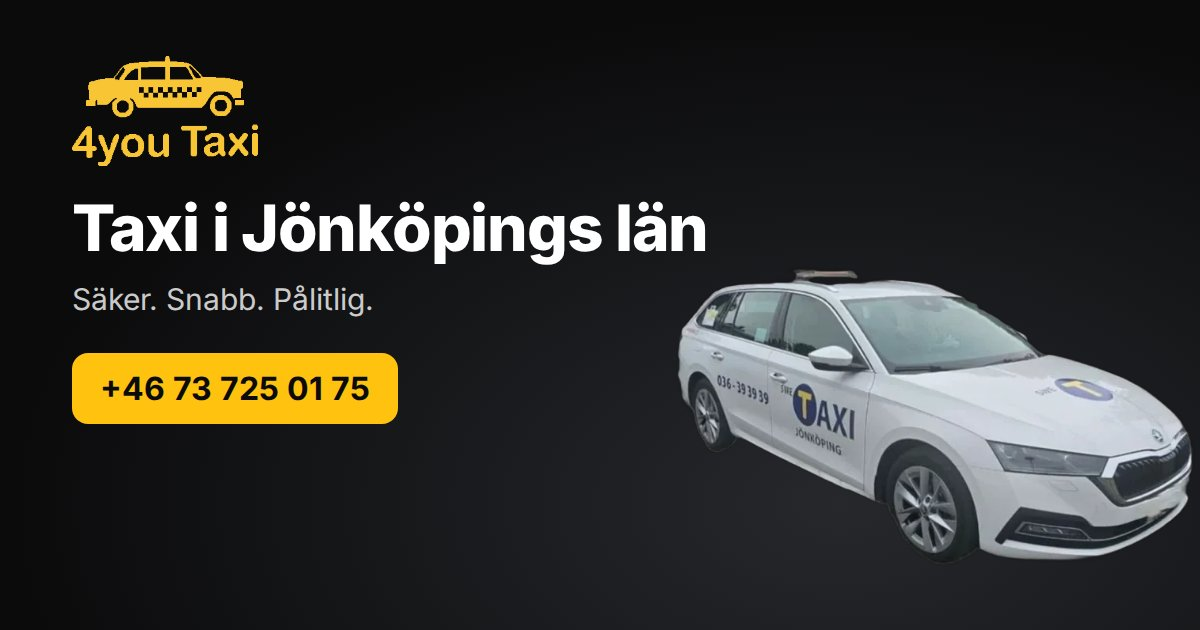
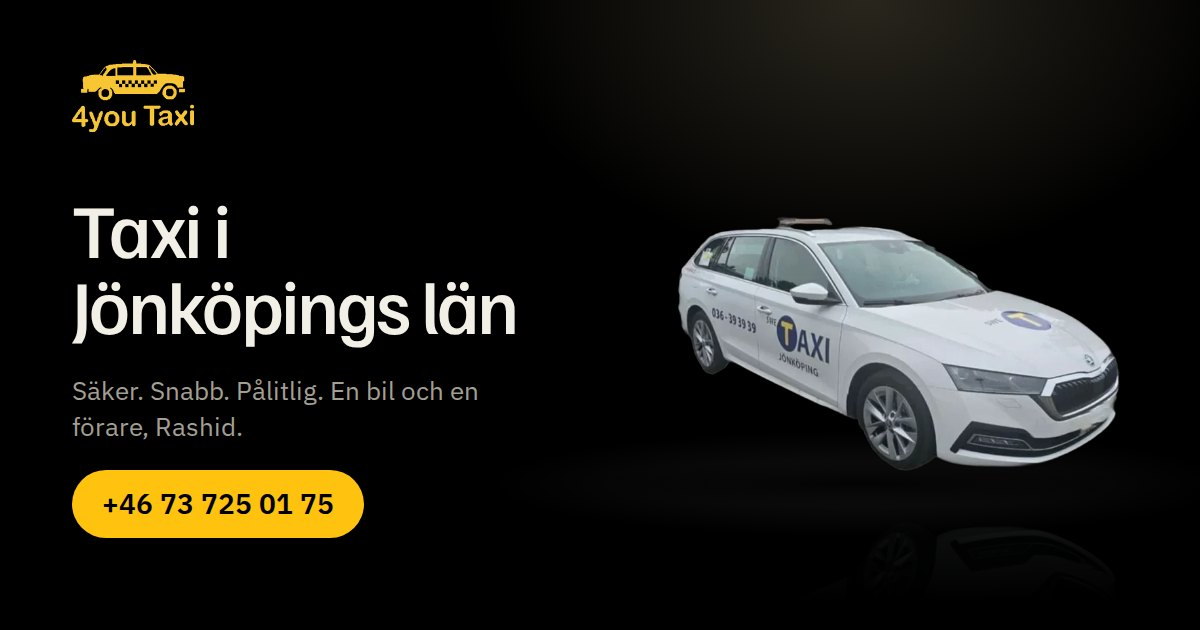
Polish: car reflection, button press feedback, new link preview image
The reflection is mirrored around each frame's ground line, so it meets
the wheels however high the car sits in the frame.

Claude-Session: https://claude.ai/code/session_01A3xESbUXBUaqDZbtP8kb2M

diff --git a/src/scripts/carViewer.ts b/src/scripts/carViewer.ts
@@ -6,6 +6,7 @@
 
 const PRIORITY_STEP = 4; // load every 4th frame first, then fill the gaps
 const CONCURRENCY = 4;
+const REFLECTION_FADE = 0.38; // the reflection fades out over this share of the car's height
 
 export function initCarViewer(root: HTMLElement): void {
   if (window.matchMedia('(prefers-reduced-motion: reduce)').matches) return;
@@ -19,12 +20,17 @@ export function initCarViewer(root: HTMLElement): void {
   const poster = root.querySelector<HTMLImageElement>('img');
   const hint = root.querySelector<HTMLElement>('[data-hint]');
   const captions = Array.from(root.querySelectorAll<HTMLElement>('[data-caption]'));
+  const reflection = root.querySelector<HTMLCanvasElement>('[data-reflection]');
+  const reflectionCtx = reflection?.getContext('2d');
   const ctx = canvas?.getContext('2d');
   if (!canvas || !poster || !ctx || !(count > 1) || !(frameWidth > 0) || !(frameHeight > 0)) return;
 
   // Frames are kept as decoded bitmaps: drawing a plain <img> can make the browser decode the
   // WebP again on every draw, which stutters on slower phones.
   const frames: (ImageBitmap | HTMLImageElement | undefined)[] = new Array(count);
+  // Where the wheels touch the ground in each frame, as a share of the frame height. The car sits
+  // at a different height in each frame, so the reflection is mirrored around this line.
+  const ground: number[] = new Array(count).fill(1);
   const requested = new Set<number>();
   let wanted = 0;
   let drawn = -1;
@@ -50,11 +56,60 @@ export function initCarViewer(root: HTMLElement): void {
     const scale = Math.min(w / img.width, h / img.height);
     const dw = img.width * scale;
     const dh = img.height * scale;
+    const x = (w - dw) / 2;
+    const y = (h - dh) / 2;
     ctx.clearRect(0, 0, w, h);
-    ctx.drawImage(img, (w - dw) / 2, (h - dh) / 2, dw, dh);
+    ctx.drawImage(img, x, y, dw, dh);
+    if (reflectionCtx) drawReflection(img, x, y, dw, dh, ground[i]);
     drawn = i;
     // Swap the poster <img> for the canvas once there is something on it.
     root.dataset.ready = 'true';
+  };
+
+  // The reflection canvas sits half a stage lower than the main one (see CarViewer.astro).
+  const drawReflection = (
+    img: CanvasImageSource,
+    x: number,
+    y: number,
+    dw: number,
+    dh: number,
+    groundShare: number,
+  ) => {
+    const r = reflectionCtx!;
+    const { width: w, height: h } = canvas;
+    const top = y - h / 2; // where the car's top edge is in this canvas
+    const line = top + groundShare * dh;
+    r.setTransform(1, 0, 0, 1, 0, 0);
+    r.clearRect(0, 0, w, h);
+    r.setTransform(1, 0, 0, -1, 0, 2 * line); // mirror around the ground line
+    r.drawImage(img, x, top, dw, dh);
+    r.setTransform(1, 0, 0, 1, 0, 0);
+    const fade = r.createLinearGradient(0, line, 0, line + dh * REFLECTION_FADE);
+    fade.addColorStop(0, '#000');
+    fade.addColorStop(1, 'transparent');
+    r.globalCompositeOperation = 'destination-in';
+    r.fillStyle = fade;
+    r.fillRect(0, 0, w, h);
+    r.globalCompositeOperation = 'source-over';
+  };
+
+  // Lowest non-transparent row of a frame, read once from a narrow copy of it.
+  const probe = document.createElement('canvas');
+  const probeCtx = probe.getContext('2d', { willReadFrequently: true });
+  const findGround = (img: ImageBitmap | HTMLImageElement): number => {
+    if (!probeCtx) return 1;
+    const pw = 32;
+    const ph = img.height;
+    probe.width = pw;
+    probe.height = ph;
+    probeCtx.drawImage(img, 0, 0, pw, ph);
+    const { data } = probeCtx.getImageData(0, 0, pw, ph);
+    for (let row = ph - 1; row >= 0; row--) {
+      for (let col = 0; col < pw; col++) {
+        if (data[(row * pw + col) * 4 + 3] > 8) return (row + 1) / ph;
+      }
+    }
+    return 1;
   };
 
   const schedule = () => {
@@ -92,6 +147,10 @@ export function initCarViewer(root: HTMLElement): void {
     const dpr = Math.min(window.devicePixelRatio || 1, 2);
     canvas.width = Math.round(rect.width * dpr);
     canvas.height = Math.round(rect.height * dpr);
+    if (reflection) {
+      reflection.width = canvas.width;
+      reflection.height = canvas.height;
+    }
     drawn = -1; // canvas was cleared by resizing: force a redraw
     schedule();
   };
@@ -125,7 +184,9 @@ export function initCarViewer(root: HTMLElement): void {
     if (requested.has(i)) return;
     requested.add(i);
     try {
-      frames[i] = await decodeFrame(src(i));
+      const img = await decodeFrame(src(i));
+      if (reflectionCtx) ground[i] = findGround(img);
+      frames[i] = img;
       schedule();
     } catch {
       requested.delete(i);

diff --git a/src/styles/global.css b/src/styles/global.css
@@ -66,7 +66,7 @@
 @layer components {
   /* Buttons: pills at least 52px tall. Yellow is reserved for the call action. */
   .btn {
-    @apply inline-flex min-h-tap items-center justify-center gap-2 rounded-brand px-6 font-semibold transition-colors duration-200;
+    @apply inline-flex min-h-tap items-center justify-center gap-2 rounded-brand px-6 font-semibold transition-[color,background-color,border-color,transform] duration-200 motion-safe:active:scale-[0.97];
   }
 
   .btn:focus-visible {
